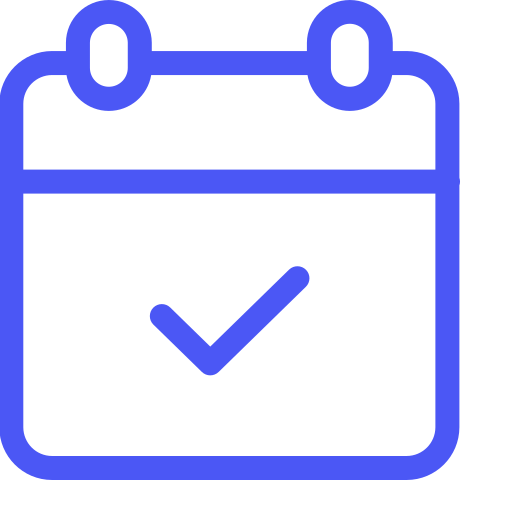
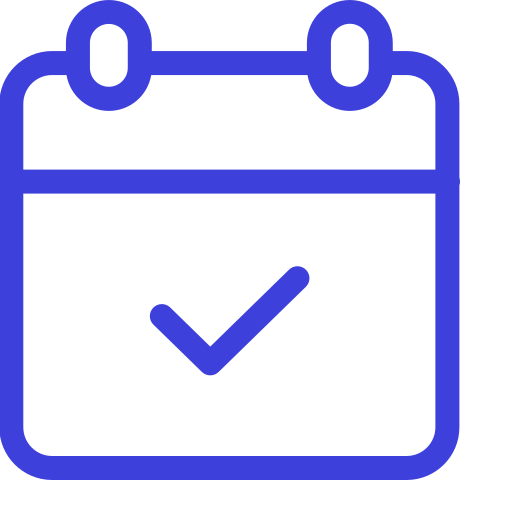
add Esc-to-close for work order panel and update toolbar action buttons

Changed region(s): [[0.0, 0.0, 0.9062, 0.9375], [0.2812, 0.5, 0.625, 0.75]]

diff --git a/src/app/components/work-order-panel/work-order-panel.component.ts b/src/app/components/work-order-panel/work-order-panel.component.ts
@@ -1,5 +1,18 @@
 import { CommonModule } from '@angular/common';
-import { ChangeDetectionStrategy, Component, ElementRef, EventEmitter, Input, OnChanges, OnDestroy, Output, SimpleChanges, ViewChild, inject } from '@angular/core';
+import {
+  ChangeDetectionStrategy,
+  Component,
+  ElementRef,
+  EventEmitter,
+  HostListener,
+  Input,
+  OnChanges,
+  OnDestroy,
+  Output,
+  SimpleChanges,
+  ViewChild,
+  inject
+} from '@angular/core';
 import { FormBuilder, FormsModule, ReactiveFormsModule, Validators } from '@angular/forms';
 import { NgbDateParserFormatter, NgbDateStruct, NgbDatepicker, NgbDatepickerMonth, NgbInputDatepicker } from '@ng-bootstrap/ng-bootstrap/datepicker';
 import { NgSelectModule } from '@ng-select/ng-select';
@@ -109,6 +122,18 @@ export class WorkOrderPanelComponent implements OnChanges, OnDestroy {
 
   onClose(): void {
     this.closed.emit();
+  }
+
+  @HostListener('document:keydown.escape', ['$event'])
+  onEscapeKey(event: Event): void {
+    if (!this.isOpen || !this.isPanelVisible || this.isPanelClosing) {
+      return;
+    }
+
+    if (event instanceof KeyboardEvent) {
+      event.preventDefault();
+    }
+    this.onClose();
   }
 
   onSubmit(): void {

diff --git a/src/app/components/work-order-timeline/work-order-timeline.component.scss b/src/app/components/work-order-timeline/work-order-timeline.component.scss
@@ -89,14 +89,19 @@
   min-width: 68px;
   border-radius: 9px;
   font-size: 14px;
+  font-weight: 500;
   cursor: pointer;
   transition: background-color 120ms ease;
 }
 
 .timeline-create-btn {
-  border: 1px solid #4b57f5;
-  background: #4b57f5;
+  border: 1px solid #3e40db;
+  background: #3e40db;
   color: #ffffff;
+  display: inline-flex;
+  align-items: center;
+  gap: 0.375rem;
+  padding: 0 0.625rem;
 }
 
 .timeline-create-btn:hover {
@@ -113,9 +118,9 @@
   align-items: center;
   gap: 0.375rem;
   padding: 0 0.625rem;
-  border: 1px solid #d9deeb;
+  border: none;
   background: #ffffff;
-  color: #4b57f5;
+  color: #3e40db;
   box-shadow: 1px 2.5px 3px -1.5px rgba(200, 207, 233, 1);
 }
 
@@ -130,6 +135,14 @@
   display: block;
 }
 
+.timeline-create-btn img {
+  width: 0.875rem;
+  height: 0.875rem;
+  object-fit: contain;
+  display: block;
+}
+
+.timeline-create-btn span,
 .timeline-today-btn span {
   line-height: 1;
 }

diff --git a/src/app/components/work-order-panel/work-order-panel.component.spec.ts b/src/app/components/work-order-panel/work-order-panel.component.spec.ts
@@ -236,6 +236,23 @@ describe('WorkOrderPanelComponent', () => {
     expect(closeSpy).toHaveBeenCalled();
   });
 
+  it('closes on Escape only when panel is open and visible', () => {
+    const onCloseSpy = spyOn(component, 'onClose');
+    const preventDefault = jasmine.createSpy('preventDefault');
+
+    component.isOpen = false;
+    component.isPanelVisible = false;
+    component.onEscapeKey({ preventDefault } as unknown as KeyboardEvent);
+    expect(onCloseSpy).not.toHaveBeenCalled();
+
+    component.isOpen = true;
+    component.isPanelVisible = true;
+    component.isPanelClosing = false;
+    component.onEscapeKey({ preventDefault } as unknown as KeyboardEvent);
+    expect(preventDefault).toHaveBeenCalled();
+    expect(onCloseSpy).toHaveBeenCalled();
+  });
+
   it('reports field error for dirty invalid field', () => {
     component.form.controls.name.setValue('');
     component.form.controls.name.markAsDirty();

diff --git a/src/app/components/work-order-timeline/work-order-timeline.component.html b/src/app/components/work-order-timeline/work-order-timeline.component.html
@@ -100,7 +100,10 @@
         </div>
       </div>
       <!-- @upgrade: Keep the top-level Create action even after filters/search are added so users can create a work order without hunting for a row first. -->
-      <button type="button" class="timeline-create-btn" data-testid="create-order-button" (click)="onCreateButtonClick()">Create</button>
+      <button type="button" class="timeline-create-btn" data-testid="create-order-button" (click)="onCreateButtonClick()">
+        <img src="/assets/images/add-event.png" alt="" aria-hidden="true" />
+        <span>New Work Order</span>
+      </button>
     </div>
   </div>
 
